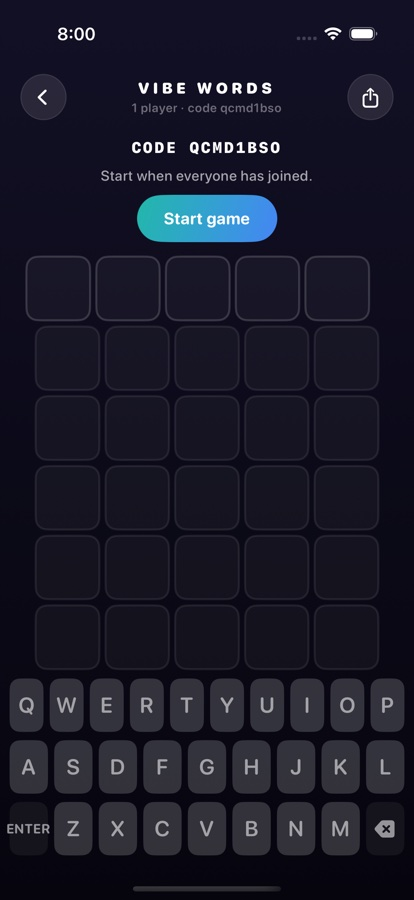
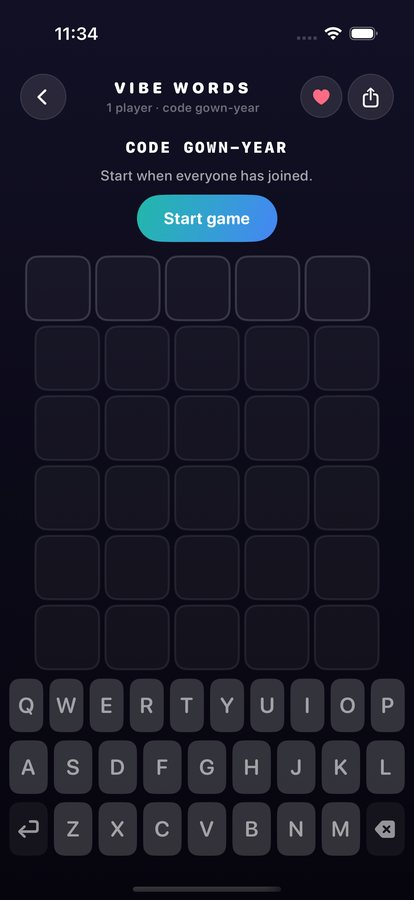
Draw the return key as an arrow instead of a word
"ENTER" does not fit one key. It was being squeezed to 13pt on the phone and
0.75rem — 0.6rem on a narrow screen — in the browser, small enough that it read
as a mistake rather than a label. Both now use the return arrow: Apple's `return`
symbol on the phone, next to the `delete.left.fill` it already used for the other
symbol key, and `↵` in the browser, next to the `⌫` it already used.

The browser needed a second class to say so. `.key.wide` is two selectors and set
a font-size of its own, so a plain `.key--symbol { font-size: 1.15rem }` lost to
it and to the two narrow-screen rules that shrink it further; the glyph was
rendering at 9.6px, which I only found by measuring the computed style rather
than looking at it. `.key.wide.key--symbol` outranks all three.

A missing SF Symbol draws *nothing* — not a placeholder, not a blank box — so a
typo in "return" would have shipped a key with no label on it and the game would
have looked broken rather than failed. There is now a test that both symbol names
resolve against the system.

Two things turned up on the way that are not the keyboard:

The landing page screenshots were re-shot, because both of the ones for this game
show the keyboard. The shared-game one was also two changes stale: it showed a
nine-character code from before codes became two words, and it now reads
WING-WIDE. Re-shooting took a few goes — the appearance is a *stored* preference,
[…]

diff --git a/web/src/games/words/VibeWords.tsx b/web/src/games/words/VibeWords.tsx
@@ -717,15 +717,24 @@ function VibeWords() {
         <div className="keyboard">
           {keyboardRows.map((row, i) => (
             <div key={i} className="keyboard-row">
-              {row.map((key) => (
-                <button
-                  key={key}
-                  className={`key ${getKeyState(key)} ${key.length > 1 ? 'wide' : ''}`}
-                  onClick={() => handleKeyPress(key)}
-                >
-                  {key === 'BACKSPACE' ? '⌫' : key}
-                </button>
-              ))}
+              {row.map((key) => {
+                // The two symbol keys: the word "ENTER" was too wide for one
+                // key and had to be shrunk until it looked like a mistake. The
+                // return arrow says the same thing at any width.
+                const isSymbol = key === 'ENTER' || key === 'BACKSPACE';
+                const label = key === 'ENTER' ? '↵' : key === 'BACKSPACE' ? '⌫' : key;
+                return (
+                  <button
+                    key={key}
+                    className={`key ${getKeyState(key)} ${key.length > 1 ? 'wide' : ''}${
+                      isSymbol ? ' key--symbol' : ''
+                    }`}
+                    onClick={() => handleKeyPress(key)}
+                  >
+                    {label}
+                  </button>
+                );
+              })}
             </div>
           ))}
         </div>

diff --git a/Tests/VibeWordsTests.swift b/Tests/VibeWordsTests.swift
@@ -1,4 +1,5 @@
 import XCTest
+import UIKit
 @testable import VibeGames
 
 /// Covers the rules of the word game and the shape of the shared payload.
@@ -104,6 +105,16 @@ final class WordGameEngineTests: XCTestCase {
                                                     guesses: ["ZEBRA"],
                                                     answer: "CRANE")
         XCTAssertEqual(state, .absent)
+    }
+
+    func testTheSymbolKeysResolveToRealSymbols() {
+        // The return and delete keys are drawn as SF Symbols. A symbol name that
+        // does not exist draws *nothing at all* — no error, no placeholder — so
+        // a typo would ship a blank key and the game would look broken rather
+        // than fail. The names are checked against the system instead.
+        for name in ["return", "delete.left.fill"] {
+            XCTAssertNotNil(UIImage(systemName: name), "\(name) is not a symbol on this iOS")
+        }
     }
 
     // MARK: - Validation

diff --git a/UITests/VibeTrioUITests.swift b/UITests/VibeTrioUITests.swift
@@ -130,7 +130,11 @@ final class VibeTrioUITests: XCTestCase {
         let codeLabel = app.descendants(matching: .any)["trio.gameCode"].firstMatch
         XCTAssertTrue(codeLabel.waitForExistence(timeout: 25))
         let code = codeLabel.label.split(separator: " ").last.map(String.init) ?? ""
-        XCTAssertEqual(code.count, 8, "got: \(codeLabel.label)")
+        // Two four-letter words, not eight characters of noise — the same shape
+        // the other games share. This still asked for eight characters, which is
+        // what a code used to be.
+        XCTAssertEqual(code.split(separator: "-").map(\.count), [4, 4],
+                       "got: \(codeLabel.label)")
 
         app.buttons["trio.startShared"].tap()
         XCTAssertTrue(app.buttons["trio.card.0"].waitForExistence(timeout: 10))

diff --git a/Sources/Features/VibeWords/VibeWordsKeyboardView.swift b/Sources/Features/VibeWords/VibeWordsKeyboardView.swift
@@ -92,7 +92,10 @@ struct VibeWordsKeyboardView: View {
         case .letter(let character):
             Text(String(character))
         case .enter:
-            Text("ENTER").font(.system(size: 13, weight: .bold, design: .rounded))
+            // Apple's own return glyph rather than the word: "ENTER" was too
+            // wide for one key and had to be shrunk until it looked like a
+            // mistake. The arrow says the same thing at any width.
+            Image(systemName: "return").font(.system(size: 18, weight: .bold))
         case .delete:
             Image(systemName: "delete.left.fill").font(.system(size: 18, weight: .bold))
         }

diff --git a/web/src/games/words/VibeWords.css b/web/src/games/words/VibeWords.css
@@ -211,6 +211,17 @@
   font-size: 0.75rem;
 }
 
+/* The return and delete keys are glyphs, not words, so they do not want the
+   small type the wide keys get — and the keyboard uppercases its labels, which
+   a glyph ignores. Two classes, because `.key.wide` above sets a font-size at
+   the same weight and would otherwise win; the narrow-screen rules below shrink
+   `.key.wide` further still, and this has to outrank those too. */
+.key.wide.key--symbol {
+  font-size: 1.15rem;
+  line-height: 1;
+  text-transform: none;
+}
+
 .key.correct {
   background-color: #6aaa64;
 }

diff --git a/README.md b/README.md
@@ -655,12 +655,12 @@ xcodebuild -project VibeGames.xcodeproj -scheme VibeGames \
   image in the bundle, the file numbering runs in deck order, and no two cards
   read out the same. A card whose artwork had gone missing would render as a
   placeholder, which is the sort of thing that is easy to ship and hard to see.
-- `UITests/` — 36 UI tests driving the real screens in a simulator, attaching a
+- `UITests/` — 38 UI tests driving the real screens in a simulator, attaching a
   screenshot at each step to the result bundle. Four of them exist to shoot the
   landing page in both appearances — a board, and the leaderboard the game ends on
   — so the screenshots and the tests cannot drift apart.
 
-**212 tests in all: 176 unit and 36 UI.** They are what the numbers above are
+**216 tests in all: 178 unit and 38 UI.** They are what the numbers above are
 worth — the grade-matching figures, the 85,320 triples, the fixture agreement
 with iOS — because each of those is measured by a test rather than asserted in
 prose.
